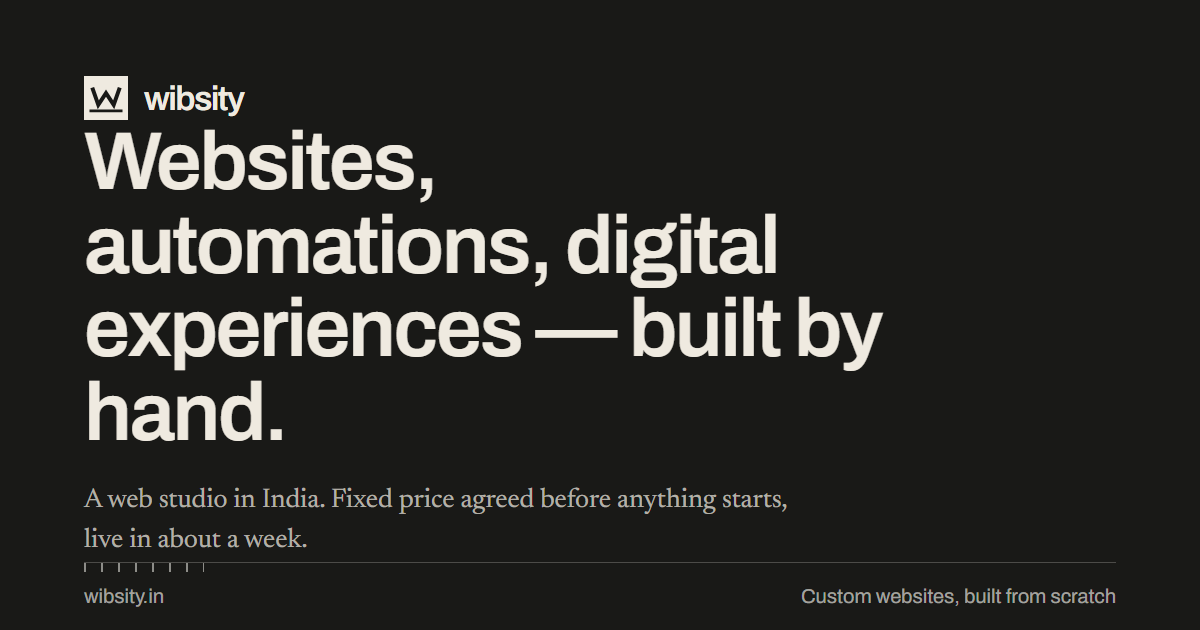
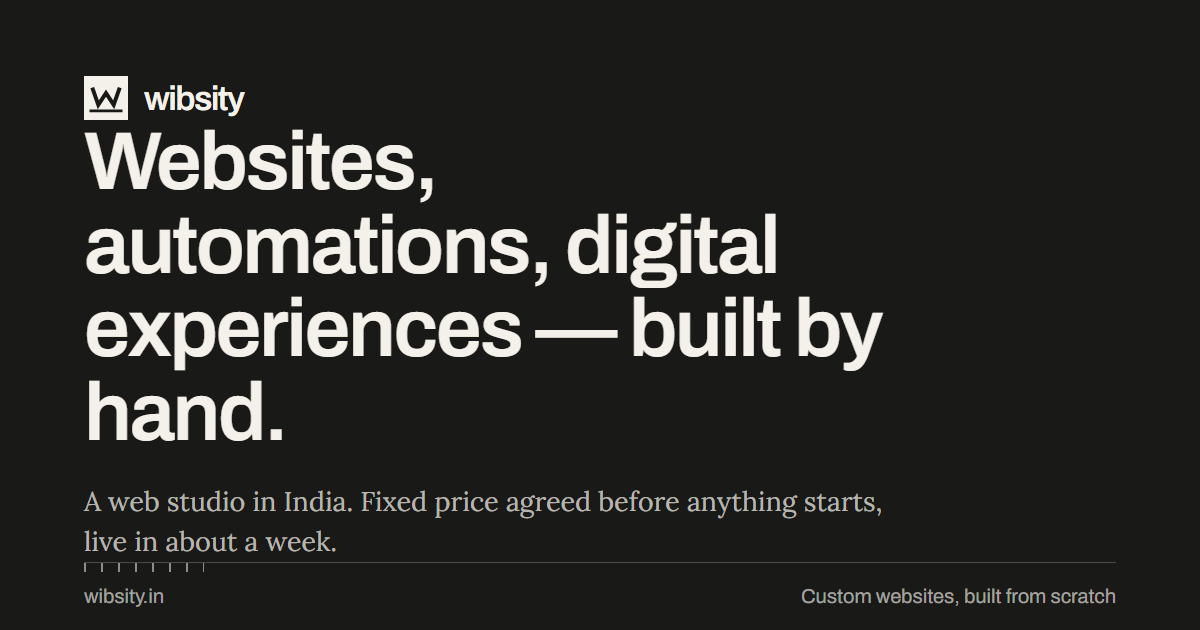
landing page redesign

Changed region(s): [[0.0617, 0.754, 0.74, 0.8143], [0.0617, 0.8444, 0.2775, 0.8746]]

diff --git a/src/data/faqs.ts b/src/data/faqs.ts
@@ -21,54 +21,54 @@ export const faqsData: FAQItem[] = [
     id: 'faq-templates',
     question: 'why not just use a template or a website builder?',
     answer:
-      'for some businesses that is genuinely the right answer, and we will say so on the call rather than sell you something larger. what you give up is control. a template arrives carrying code for every feature its author imagined, most of which your site will never use, and every change afterwards happens inside somebody else’s rules. a built site contains what your site needs and nothing else, and it can be changed by editing it.',
+      'for some businesses that is genuinely the right answer, and we will say so rather than sell you something larger. what you give up is control: a template carries code for every feature its author imagined, most of which you will never use, and every change happens inside somebody else’s rules. a built site contains only what it needs, and it can be changed by editing it.',
   },
   {
     id: 'faq-pricing',
     question: 'how does pricing work?',
     answer:
-      'fixed price, agreed in writing before anything starts. after one conversation you get a written scope, a number and a date. if you later want something outside that scope, it is quoted separately rather than absorbed into a bill you see at the end. there are no retainers and no hourly billing.',
+      'fixed price, agreed in writing before anything starts. one conversation gets you a written scope, a number and a date. anything outside that scope is quoted separately, not absorbed into a bill at the end. no retainers, no hourly billing.',
   },
   {
     id: 'faq-timeline',
     question: 'how long does it take?',
     answer:
-      'three to five working days for a standard business site, longer for stores and anything with custom functionality. the dates are confirmed in writing before the project starts. what usually slows a project down is waiting on content, so we tell you exactly what we need from you at the start.',
+      'three to five working days for a standard business site, longer for stores and custom functionality. dates are confirmed in writing before the project starts. what usually slows things down is waiting on content, so we tell you exactly what we need up front.',
   },
   {
     id: 'faq-changes',
     question: 'what happens when i need to change something later?',
     answer:
-      'small text and image edits can be set up for you to make yourself. anything structural, come back to us and it is quoted as its own small job. you are not on a subscription, and the site does not stop working if you stop paying anyone.',
+      'small text and image edits can be set up for you to make yourself. anything structural comes back to us as its own quoted job. there is no subscription, and the site keeps working whether or not you keep paying anyone.',
   },
   {
     id: 'faq-ownership',
     question: 'who owns the domain and the site once it is live?',
     answer:
-      'the domain is registered in your name and is yours to move, renew or transfer without asking us. the site is deployed on hosting in your control. nothing about the arrangement is designed to make leaving difficult.',
+      'the domain is registered in your name — yours to move, renew or transfer without asking us. the site sits on hosting you control. nothing here is designed to make leaving difficult.',
   },
   {
     id: 'faq-content',
     question: 'what if i do not have copy or photographs ready?',
     answer:
-      'most clients do not. we work from what you can tell us in conversation and shape it into the copy on the page, and we will source photography where it is needed. you approve all of it before launch.',
+      'most clients do not. we shape the copy from what you tell us in conversation, and source photography where it is needed. you approve all of it before launch.',
   },
   {
     id: 'faq-hosting',
     question: 'where does the site actually live?',
     answer:
-      'on modern static hosting with a global cdn and automatic ssl. for most small business sites the hosting cost is nil to negligible, and there is no server for you to maintain or patch.',
+      'on modern static hosting with a global cdn and automatic ssl. for most small business sites the cost is nil to negligible, with no server for you to maintain or patch.',
   },
   {
     id: 'faq-small-studio',
     question: 'you are very small. is that a risk?',
     answer:
-      'it is a fair thing to weigh. you get the person building the site on the phone, which is the part larger agencies charge more for and deliver less of. what you do not get is a team to absorb a bad week, so we take on a limited number of projects at a time and say no when the calendar is full rather than quietly slipping your date.',
+      'it is a fair thing to weigh. you get the person building the site on the phone — the part larger agencies charge more for and deliver less of. what you do not get is a team to absorb a bad week, so we take on a limited number of projects at a time and say no when the calendar is full.',
   },
   {
     id: 'faq-prepare',
     question: 'what do you need from me to start?',
     answer:
-      'a sense of what the business does and who you want to reach, your logo and any brand materials if they exist, and two or three sites whose quality you admire. that is enough for the first conversation.',
+      'a sense of what the business does and who you want to reach, your logo and brand materials if they exist, and two or three sites whose quality you admire.',
   },
 ];

diff --git a/index.html b/index.html
@@ -5,7 +5,7 @@
     <meta name="viewport" content="width=device-width, initial-scale=1.0" />
     <!-- The site is light only — there is no theme toggle and no dark
          override — so this is a constant. -->
-    <meta name="theme-color" content="#efeae0" />
+    <meta name="theme-color" content="#f4f1ea" />
     <!-- One first-party file doing the three things that must happen in the
          head: resolve the theme before first paint (so there is no flash of
          the wrong one), initialise Google Analytics, and promote the
@@ -71,10 +71,13 @@
          (wdth 62..125) as well as weight, because the site animates letterform
          width — the headline sets itself on load, section titles widen on
          hover, and the hero compresses as it scrolls away. Dropping the axis
-         silently kills all three. Archivo carries headlines and UI, Newsreader
-         carries body copy; the site's third face (JetBrains Mono) went with
-         the decorative code panel it existed for, and Fontshare went with
-         General Sans and Satoshi — one fewer origin to connect to.
+         silently kills all three. Archivo carries headlines and UI, Lora
+         carries body copy (moved from Newsreader as of the 2026.6
+         mockup-driven refresh — a content swap, not a motion one: Lora has no
+         width axis, but nothing above reads --font-serif for its stretch, so
+         nothing breaks); the site's third face (JetBrains Mono) went with the
+         decorative code panel it existed for, and Fontshare went with General
+         Sans and Satoshi — one fewer origin to connect to.
 
          Loaded with the preload+swap pattern so it does not block first paint
          on a slow connection; boot.js promotes it once it arrives, and the
@@ -84,12 +87,12 @@
     <link
       rel="preload"
       as="style"
-      href="https://fonts.googleapis.com/css2?family=Archivo:wdth,wght@62..125,400..600&family=Newsreader:ital,opsz,wght@0,6..72,300..500;1,6..72,300..500&display=swap"
+      href="https://fonts.googleapis.com/css2?family=Archivo:wdth,wght@62..125,400..600&family=Lora:ital,wght@0,400..600;1,400..600&display=swap"
       data-font-preload
     />
     <noscript>
       <link
-        href="https://fonts.googleapis.com/css2?family=Archivo:wdth,wght@62..125,400..600&family=Newsreader:ital,opsz,wght@0,6..72,300..500;1,6..72,300..500&display=swap"
+        href="https://fonts.googleapis.com/css2?family=Archivo:wdth,wght@62..125,400..600&family=Lora:ital,wght@0,400..600;1,400..600&display=swap"
         rel="stylesheet"
       />
     </noscript>
@@ -180,7 +183,7 @@
           "name": "why not just use a template or a website builder?",
           "acceptedAnswer": {
             "@type": "Answer",
-            "text": "for some businesses that is genuinely the right answer, and we will say so on the call rather than sell you something larger. what you give up is control. a template arrives carrying code for every feature its author imagined, most of which your site will never use, and every change afterwards happens inside somebody else’s rules. a built site contains what your site needs and nothing else, and it can be changed by editing it."
+            "text": "for some businesses that is genuinely the right answer, and we will say so rather than sell you something larger. what you give up is control: a template carries code for every feature its author imagined, most of which you will never use, and every change happens inside somebody else’s rules. a built site contains only what it needs, and it can be changed by editing it."
           }
         },
         {
@@ -188,7 +191,7 @@
           "name": "how does pricing work?",
           "acceptedAnswer": {
             "@type": "Answer",
-            "text": "fixed price, agreed in writing before anything starts. after one conversation you get a written scope, a number and a date. if you later want something outside that scope, it is quoted separately rather than absorbed into a bill you see at the end. there are no retainers and no hourly billing."
+            "text": "fixed price, agreed in writing before anything starts. one conversation gets you a written scope, a number and a date. anything outside that scope is quoted separately, not absorbed into a bill at the end. no retainers, no hourly billing."
           }
         },
         {
@@ -196,7 +199,7 @@
           "name": "how long does it take?",
           "acceptedAnswer": {
             "@type": "Answer",
-            "text": "three to five working days for a standard business site, longer for stores and anything with custom functionality. the dates are confirmed in writing before the project starts. what usually slows a project down is waiting on content, so we tell you exactly what we need from you at the start."
+            "text": "three to five working days for a standard business site, longer for stores and custom functionality. dates are confirmed in writing before the project starts. what usually slows things down is waiting on content, so we tell you exactly what we need up front."
           }
         }
       ]

diff --git a/src/index.css b/src/index.css
@@ -40,21 +40,26 @@
    ========================================================================== */
 
 @theme {
-  /* Warm bone. Warmed from the previous cool limestone #edece6, while staying
-     clear of the #f4f1ea cream that reads as a generic AI-design tell.
-     Relative luminance 0.812 against the old 0.820 — close enough that every
-     pair is re-measured rather than assumed (npm run check:contrast). */
-  --color-canvas: #efeae0;
+  /* Cooler paper-white, moved from the previous warm bone #efeae0 as of the
+     2026.6 mockup-driven refresh — a direct-instruction reversal of that
+     token's own earlier reasoning (#efeae0 had itself been chosen specifically
+     to stay clear of this exact value, #f4f1ea, calling it a "generic
+     AI-design tell"). Re-measure every pair after touching this again rather
+     than trusting either comment (npm run check:contrast). */
+  --color-canvas: #f4f1ea;
   /* Raised = lighter than canvas (paper lifted toward white): inputs, the one
      panel that needs to separate from its band. Sunken = a slightly deeper
      paper for alternating bands. */
-  --color-canvas-raised: #f8f4ed;
-  --color-canvas-sunken: #e4ddd0;
+  --color-canvas-raised: #fbf9f4;
+  --color-canvas-sunken: #e9e4d8;
   /* Warm near-black, replacing the cool #161a19, so ink sits with warm paper.
      The inverted field: whole sections flip to this, and it is also the
      primary button's fill in light mode. */
   --color-ink: #191917;
-  --color-ink-fg: #efeae0;
+  /* Kept equal to --color-canvas on purpose (see that token's own comment) —
+     text/logo on a dark field should read as the same paper tone as the page
+     itself, not a different white. */
+  --color-ink-fg: #f4f1ea;
 
   /* The one chromatic full-bleed ground, used by .field-petrol and nothing
      else — every other surface on the site is paper or ink. */
@@ -97,13 +102,16 @@
 
   --color-negative: #97281f;
 
-  /* Archivo carries headlines and every piece of UI text; Newsreader carries
-     body copy. The pairing is deliberately inverted from the usual
-     serif-display/sans-body arrangement — a precise grotesque headline over
-     warm serif paragraphs reads as "technical" and "considered" at the same
-     time, which is exactly the two things this studio sells. */
+  /* Archivo carries headlines and every piece of UI text; Lora carries body
+     copy (moved from Newsreader as of the 2026.6 mockup-driven refresh — a
+     content swap only, Archivo is unchanged, so none of the width-axis
+     motion the sans face drives is affected). The pairing is deliberately
+     inverted from the usual serif-display/sans-body arrangement — a precise
+     grotesque headline over warm serif paragraphs reads as "technical" and
+     "considered" at the same time, which is exactly the two things this
+     studio sells. */
   --font-sans: Archivo, "Helvetica Neue", Helvetica, Arial, sans-serif;
-  --font-serif: Newsreader, Georgia, "Times New Roman", serif;
+  --font-serif: Lora, Georgia, "Times New Roman", serif;
 
   /* Type scale — a perfect fourth (1.333) above a 17px serif body, flattened
      at the top so display sizes stay usable on a laptop viewport rather than

diff --git a/src/data/process.ts b/src/data/process.ts
@@ -15,27 +15,27 @@ export const processData: ProcessStep[] = [
     name: 'a conversation',
     yours: 'about 30 minutes.',
     description:
-      'what the business does, who you want calling you, and what the site has to achieve. by the end of it you have a written scope, a fixed price and a delivery date — not an estimate that moves later.',
+      'what the business does, who should be calling you, and what the site needs to achieve. you leave with a written scope, a fixed price and a delivery date.',
   },
   {
     step: '02',
     name: 'the layout',
     yours: 'one round of comments.',
     description:
-      'you see the actual pages, on desktop and phone, before a line of the real site is written. type, spacing and structure get settled here, where changing them is cheap.',
+      'you see the actual pages, on desktop and phone, before a line of the real site is written — where type, spacing and structure are still cheap to change.',
   },
   {
     step: '03',
     name: 'the build',
     yours: 'nothing.',
     description:
-      'the site gets written by hand — no page builder, no theme, no plugin stack. this is the part where a custom build separates from an assembled one, and the part you do not have to be present for.',
+      'the site gets written by hand — no page builder, no theme, no plugin stack. this is where a custom build separates from an assembled one, and you do not need to be present for it.',
   },
   {
     step: '04',
     name: 'live, and yours',
     yours: 'a short walkthrough.',
     description:
-      'tested across real devices, connected to your domain, and handed over. the domain is registered in your name. nothing about the site is held hostage to keep you as a client.',
+      'tested across real devices, connected to your domain, and handed over. the domain is registered in your name — nothing is held hostage to keep you as a client.',
   },
 ];

diff --git a/src/data/studio.ts b/src/data/studio.ts
@@ -14,27 +14,27 @@ import type { ComparisonRow } from '../types';
 export const comparisonRows: ComparisonRow[] = [
   {
     aspect: 'what gets delivered',
-    template: 'a theme somebody else designed, with your logo and colours applied.',
+    template: 'a theme someone else designed, with your logo applied.',
     built: 'pages drawn for your business, from a blank file.',
   },
   {
     aspect: 'what ships with it',
-    template: 'code for every feature the theme author imagined, whether you use it or not.',
-    built: 'only the code the site needs to do what it does.',
+    template: 'code for every feature the theme author imagined, used or not.',
+    built: 'only the code the site needs.',
   },
   {
     aspect: 'making a change',
-    template: 'work around the builder’s rules, or add a plugin and hope.',
-    built: 'edit the file. the whole thing is readable.',
+    template: 'work around the builder’s rules, or add a plugin.',
+    built: 'edit the file.',
   },
   {
     aspect: 'where it lives',
-    template: 'inside a platform, on that platform’s terms and pricing.',
-    built: 'on hosting you control, as files you hold.',
+    template: 'inside a platform, on its terms and pricing.',
+    built: 'on hosting you control.',
   },
   {
     aspect: 'who you talk to',
-    template: 'support tickets, or whoever configured it for you.',
+    template: 'support tickets, or whoever configured it.',
     built: 'the person who wrote it.',
   },
 ];

diff --git a/src/data/contact.ts b/src/data/contact.ts
@@ -18,12 +18,12 @@ export const whatHappensNext = [
   {
     step: '01',
     title: 'a reply, usually the same day',
-    body: 'from the person who would build it, not an intake form or a sales rep.',
+    body: 'from the person who would build it, not a sales rep.',
   },
   {
     step: '02',
     title: 'one conversation',
-    body: 'half an hour on a call or whatsapp about the business and what it needs to do.',
+    body: 'half an hour on a call or whatsapp about the business and what it needs.',
   },
   {
     step: '03',

diff --git a/CLAUDE.md b/CLAUDE.md
@@ -324,7 +324,7 @@ petrol (`--color-accent`) marks what the studio makes and measures — link unde
 focus ring, the "built for you" side of the comparison, the measure ticks, the process section's
 step numerals, and, as of the 2026.3 colorize pass, the hero's rotating headline word (`.rotate-word`
 in index.css) — the one place in the hero that names what the studio builds, which is exactly this
-token's existing role. It reuses the ServicesPage timeline's own accent-on-canvas pairing (8.13:1,
+token's existing role. It reuses the ServicesPage timeline's own accent-on-canvas pairing (8.65:1,
 already measured and passing) rather than introducing a new one; `.hero-and-more`, the fixed "and
 more." suffix that is deliberately NOT one of the cycling words (see "The hero loop overrides"
 above), stays ink so the colour boundary reinforces that distinction. (The specimen readout's
@@ -352,9 +352,12 @@ foundation has to stand on its own, and so a colour direction can be layered ont
 deliberately rather than inherited from a second theme nobody was maintaining. If dark mode comes
 back it is a decision, not a restoration.
 
-Paper is `#efeae0` (warm bone, warmed from the redesign's original cool limestone `#edece6` while
-staying clear of the `#f4f1ea` cream that reads as a generic AI-design tell); ink is `#191917` (warm
-near-black, from the original cool `#161a19`); the two accents are petrol `#0e4b54` and oxide
+Paper is `#f4f1ea` (cooler paper-white), moved as of the 2026.6 mockup-driven refresh from the
+2026 redesign's original warm bone `#efeae0` — itself chosen specifically to stay clear of this
+exact value, on the reasoning that it read as a generic AI-design tell. That reasoning is reversed
+here on direct instruction, not forgotten: the mockups this pass was built from used `#f4f1ea`
+directly, and it was kept after review rather than nudged back toward warm bone. Ink is `#191917`
+(warm near-black, from the original cool `#161a19`); the two accents are petrol `#0e4b54` and oxide
 `#8f4420` — see "Two accents" above for the semantic split.
 
 `--color-yellow-field` (`#fbdb85`, a pale warm gold) is a one-off exception to the two-accent-only
@@ -364,16 +367,19 @@ a literal value, not a token, since it needs no reuse elsewhere. Neither is lice
 those two cards.
 
 Two tokens carry contrast maths in their comments and should not be nudged without redoing it:
-`--color-fg-subtle` (5.62:1 on canvas, per `npm run check:contrast`) and `--color-rule-strong` (it
+`--color-fg-subtle` (5.98:1 on canvas, per `npm run check:contrast`) and `--color-rule-strong` (it
 draws input underlines and secondary-button borders, so it is a UI component boundary owing 3:1, not
-text's 4.5:1; 3.81:1 on canvas). Both figures move whenever paper or ink moves — re-run
+text's 4.5:1; 4.05:1 on canvas). Both figures move whenever paper or ink moves — re-run
 `npm run check:contrast` after any token-colour change rather than trusting the numbers written here.
 
 ### Typography
 Two families, from one host, in a deliberately inverted pairing: **Archivo** (grotesque) for
-headlines and all UI, **Newsreader** (serif) for body copy. A precise grotesque headline over warm
-serif paragraphs reads as *technical* and *considered* at once, which is the two things this studio
-sells, and it escapes the "big bold sans + small grey paragraph" default in one move.
+headlines and all UI, **Lora** (serif) for body copy — moved from Newsreader as of the 2026.6
+mockup-driven refresh, a content-only swap: Lora has no optical-size or width axis, but nothing
+above ever read `--font-serif` for motion, so none of the site's font-stretch-driven effects are
+affected. A precise grotesque headline over warm serif paragraphs reads as *technical* and
+*considered* at once, which is the two things this studio sells, and it escapes the "big bold sans +
+small grey paragraph" default in one move.
 
 Headlines sit at **weight 550**, not 800/900. Large type is fine; shouted type is not. The scale is
 a perfect fourth over a 17px serif body, flattened at the top so display sizes stay usable on a
